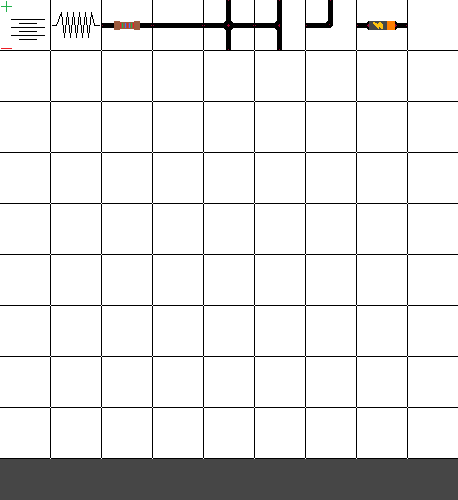
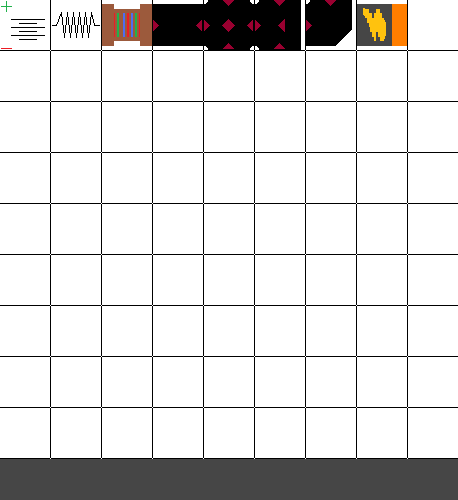
Basic Circuitry

Changed region(s): [[0.214, 0.0, 0.8865, 0.12]]

diff --git a/src/main/java/me/mark/electroid/gui/debugmenu/DebugMenu.java b/src/main/java/me/mark/electroid/gui/debugmenu/DebugMenu.java
@@ -1,0 +1,123 @@
+package me.mark.electroid.gui.debugmenu;
+
+import com.megaboost.Game;
+import com.megaboost.components.WrappedTextComponent;
+import com.megaboost.gui.menu.Menu;
+import com.megaboost.position.Location;
+import com.megaboost.visuals.Camera;
+import com.megaboost.world.Block;
+import me.mark.electroid.Electroid;
+import me.mark.electroid.entity.ElectroidPlayer;
+import java.awt.Graphics;
+import java.awt.Color;
+import java.awt.Font;
+import java.util.Arrays;
+import java.util.Collections;
+import java.util.List;
+
+public class DebugMenu extends Menu {
+
+  private final ElectroidPlayer player;
+  private final Color color;
+  private WrappedTextComponent text;
+
+  public DebugMenu(ElectroidPlayer player) {
+    super(new Location(0, 0), 100, 200, Collections.emptyList(), false);
+
+    this.player = player;
+    this.color = new Color(70, 70, 70, 50);
+    setShown(true);
+    createText();
+  }
+
+  private void createText() {
+    ElectroidPlayer player = getPlayer();
+    Block block = player.getCurrentBlock();
+    Location blockLoc;
+    String blockBiome;
+    String blockName;
+    if (block != null) {
+      blockLoc = player.getLocation();
+      blockName = block.getClass().getSimpleName();
+      blockBiome = block.getBiome().getName();
+    } else {
+      blockLoc = new Location(0, 0);
+      blockName = "Void";
+      blockBiome = "None";
+    }
+    Game game = Electroid.getInstance().getGame();
+    String fps = "FPS: " + game.getFps();
+    String tps = "TPS: " + game.getTps();
+    String componentSize = "Components: " + game.getComponentManager().getComponents().size();
+    String coordinateFormat = "X // Y";
+    String coordinateData = String.format("%s // %s", blockLoc.getX()/ Block.BLOCK_WIDTH, blockLoc.getY() / Block.BLOCK_HEIGHT);
+    String blockTypeData = String.format("Block Type: %s", blockName);
+    String biomeData = String.format("Biome: %s", blockBiome);
+    String facing = String.format("Facing: %s", player.getFacing().getName());
+    List<String> lines =  Arrays.asList(coordinateFormat, coordinateData, fps, tps, componentSize, blockTypeData, biomeData, facing);
+    this.text = new WrappedTextComponent(new Location(5, 5), lines, new Font("Times New Roman", Font.PLAIN, 15), 5, false);
+  }
+
+  public ElectroidPlayer getPlayer() {
+    return player;
+  }
+
+  @Override
+  public Color getColor() {
+    return color;
+  }
+
+  public WrappedTextComponent getText() {
+    return text;
+  }
+
+  @Override
+  public boolean isKeyToggled() {
+    return false;
+  }
+
+  @Override
+  public int getKey() {
+    return 0;
+  }
+
+  @Override
+  public void tick() {
+    ElectroidPlayer player = getPlayer();
+    WrappedTextComponent text = getText();
+    if (player == null || text == null) return;
+    Block block = player.getCurrentBlock();
+    String blockBiome;
+    String blockName;
+    if (block != null) {
+      blockName = block.getClass().getSimpleName();
+      blockBiome = block.getBiome().getName();
+    } else {
+      blockName = "Void";
+      blockBiome = "None";
+    }
+
+    Game game = Game.getInstance();
+    String fps = "FPS: " + game.getFps();
+    String tps = "TPS: " + game.getTps();
+    String componentSize = "Components: " + game.getComponentManager().getComponents().size();
+    String coordinateData = String.format("%s // %s", player.getBlockX(), player.getBlockY());
+    String blockTypeData = String.format("Block Type: %s", blockName);
+    String biomeData = String.format("Biome: %s", blockBiome);
+    String facing = String.format("Facing: %s", player.getFacing().getName());
+    text.updateLine(1, coordinateData);
+    text.updateLine(2, blockTypeData);
+    text.updateLine(3, fps);
+    text.updateLine(4, tps);
+    text.updateLine(5, componentSize);
+    text.updateLine(6, biomeData);
+    text.updateLine(7, facing);
+  }
+
+  @Override
+  public void render(Graphics g, Camera camera) {
+    WrappedTextComponent text = getText();
+    if (text == null) return;
+    text.render(g, camera);
+  }
+}

diff --git a/src/main/java/me/mark/electroid/entity/ElectroidPlayer.java b/src/main/java/me/mark/electroid/entity/ElectroidPlayer.java
@@ -11,26 +11,59 @@ import com.megaboost.inputs.MouseClickType;
 import com.megaboost.inventory.HotBar;
 import com.megaboost.inventory.Inventory;
 import com.megaboost.inventory.InventoryHolder;
+import com.megaboost.items.Material;
 import com.megaboost.position.Location;
+import com.megaboost.utils.ImageUtil;
 import com.megaboost.visuals.Camera;
 import me.mark.electroid.Electroid;
+import me.mark.electroid.gui.debugmenu.DebugMenu;
+
 import java.awt.Graphics;
 import java.awt.Image;
+import java.awt.Point;
 import java.awt.event.KeyEvent;
 
 public class ElectroidPlayer extends Player implements ChatSender, Listener, InventoryHolder {
 
   private final Inventory inventory;
   private final HotBar hotBar;
+  private final DebugMenu debugMenu;
+  private Image cursorImage;
+  private int cursorRotation;
 
   public ElectroidPlayer(Location location, String name) {
     super(location, name);
 
     this.inventory = new Inventory("Player Inventory", 9, 5);
     this.hotBar = new HotBar(this.inventory, 60, 60, 5);
+    this.debugMenu = new DebugMenu(this);
+    this.cursorImage = null;
+    this.cursorRotation = 0;
     setSpeed(8);
     getNameTag().setShown(false);
     Electroid.getInstance().getGame().getEventManager().registerListener(this);
+  }
+
+  public Image getCursorImage() {
+    return cursorImage;
+  }
+
+  public void setCursorImage(Image cursorImage) {
+    this.cursorImage = cursorImage;
+  }
+
+  public int getCursorRotation() {
+    return cursorRotation;
+  }
+
+  public void setCursorRotation(int cursorRotation) {
+    this.cursorRotation = cursorRotation;
+  }
+
+  private void rotateCursorImage() {
+    if (getCursorImage() == null) return;
+    setCursorRotation(getCursorRotation() + 90);
+    setCursorImage(ImageUtil.rotate(getCursorImage(), 90));
   }
 
   @EventHandler
@@ -40,6 +73,7 @@ public class ElectroidPlayer extends Player implements ChatSender, Listener, Inv
 
     if (keycode == KeyEvent.VK_E) getInventory().toggleShown();
     if (keycode == KeyEvent.VK_ESCAPE) if (getInventory().isShown()) getInventory().closeInventory();
+    if (keycode == KeyEvent.VK_SPACE) if (!getInventory().isShown()) rotateCursorImage();
   }
 
   @EventHandler
@@ -87,8 +121,23 @@ public class ElectroidPlayer extends Player implements ChatSender, Listener, Inv
   }
 
   @Override
+  public void tick() {
+    super.tick();
+
+    if (getHotBar() == null) return;
+    if (getHotBar().getItemInHand() == null) return;
+    if (getHotBar().getItemInHand().getType() == Material.AIR) {
+      setCursorImage(null);
+      return;
+    }
+    setCursorImage(ImageUtil.rotate(getHotBar().getItemInHand().getType().getAsset(), getCursorRotation()));
+  }
+
+  @Override
   public void render(Graphics g, Camera camera) {
-    return;
+    if (getCursorImage() == null) return;
+    Point mousePoint = Electroid.getInstance().getGame().getMousePoint();
+    g.drawImage(getCursorImage(), (int) mousePoint.getX(), (int) mousePoint.getY(), 50, 50, null);
   }
 
 }

diff --git a/src/main/java/me/mark/electroid/world/blocks/BatteryBlock.java b/src/main/java/me/mark/electroid/world/blocks/BatteryBlock.java
@@ -5,30 +5,29 @@ import com.megaboost.world.Block;
 import com.megaboost.world.WorldObject;
 import com.megaboost.world.block.Breakable;
 import com.megaboost.world.block.Placeable;
-import me.mark.electroid.electrical.Wire;
 import me.mark.electroid.items.Material;
 import me.mark.electroid.world.CircuitBlock;
 import java.awt.Color;
 import java.util.Collections;
 import java.util.List;
 
-public class WireBlock extends WorldObject implements Breakable, Placeable, Wire {
+public class BatteryBlock extends WorldObject implements Breakable, Placeable {
 
   private final ItemStack drop;
 
-  public WireBlock(Block block) {
-    super(Material.STRAIGHT_WIRE.getAsset(), block);
+  public BatteryBlock(Block block) {
+    super(Material.VOLTAGE_SOURCE.getAsset(), block);
 
-    this.drop = new ItemStack(Material.STRAIGHT_WIRE);
+    this.drop = new ItemStack(Material.VOLTAGE_SOURCE);
     //Electroid.getInstance().getGame().getWorldObjectPlaceManager().addObject(this);
     setWidth(50);
     setHeight(50);
   }
 
-  public WireBlock() {
+  public BatteryBlock() {
     super();
 
-    this.drop = new ItemStack(Material.STRAIGHT_WIRE);
+    this.drop = new ItemStack(Material.VOLTAGE_SOURCE);
   }
 
   @Override
@@ -43,7 +42,7 @@ public class WireBlock extends WorldObject implements Breakable, Placeable, Wire
 
   @Override
   public Color getBreakParticleColor() {
-    return Color.BLACK;
+    return Color.ORANGE;
   }
 
   @Override
@@ -53,46 +52,6 @@ public class WireBlock extends WorldObject implements Breakable, Placeable, Wire
 
   @Override
   public Material getSourceMaterial() {
-    return Material.STRAIGHT_WIRE;
-  }
-
-  @Override
-  public int getRotation() {
-    return 0;
-  }
-
-  @Override
-  public void setVoltage(double voltage) {
-
-  }
-
-  @Override
-  public double getVoltage() {
-    return 0;
-  }
-
-  @Override
-  public void setCurrent(double current) {
-
-  }
-
-  @Override
-  public double getCurrent() {
-    return 0;
-  }
-
-  @Override
-  public void setResistance(double resistance) {
-
-  }
-
-  @Override
-  public boolean isNode() {
-    return false;
-  }
-
-  @Override
-  public void setNode(boolean isNode) {
-
+    return Material.VOLTAGE_SOURCE;
   }
 }

diff --git a/src/main/java/me/mark/electroid/electrical/ElectricalComponent.java b/src/main/java/me/mark/electroid/electrical/ElectricalComponent.java
@@ -1,0 +1,24 @@
+package me.mark.electroid.electrical;
+
+public interface ElectricalComponent {
+
+  int getRotation();
+  void setVoltage(double voltage);
+  double getVoltage();
+  void setCurrent(double current);
+  double getCurrent();
+  void setResistance(double resistance);
+  double getResistance();
+
+  default double getPower() {
+    return getCurrent() * getVoltage();
+  }
+
+  default double calculateVoltage() {
+    double voltage = getCurrent() * getResistance();
+    setVoltage(voltage);
+    return voltage;
+  }
+
+
+}

diff --git a/src/main/java/me/mark/electroid/Electroid.java b/src/main/java/me/mark/electroid/Electroid.java
@@ -4,6 +4,7 @@ import com.megaboost.Game;
 import com.megaboost.world.WorldObjectPlaceManager;
 import me.mark.electroid.gui.mainmenu.MainMenu;
 import me.mark.electroid.utils.ImageUtil;
+import me.mark.electroid.world.blocks.BatteryBlock;
 import me.mark.electroid.world.blocks.WireBlock;
 
 /**
@@ -38,6 +39,7 @@ public class Electroid {
   private void registerWorldObjects() {
     WorldObjectPlaceManager wpm = getGame().getWorldObjectPlaceManager();
     wpm.addObject(new WireBlock());
+    wpm.addObject(new BatteryBlock());
 
   }
 

diff --git a/src/main/java/me/mark/electroid/world/CircuitBlock.java b/src/main/java/me/mark/electroid/world/CircuitBlock.java
@@ -2,9 +2,6 @@ package me.mark.electroid.world;
 
 import com.megaboost.Game;
 import com.megaboost.entity.Entity;
-import com.megaboost.position.Location;
-import com.megaboost.utils.ImageUtil;
-import com.megaboost.utils.MathUtil;
 import com.megaboost.visuals.Camera;
 import com.megaboost.visuals.Filter;
 import com.megaboost.world.Block;

diff --git a/src/main/java/me/mark/electroid/electrical/Wire.java b/src/main/java/me/mark/electroid/electrical/Wire.java
@@ -1,0 +1,13 @@
+package me.mark.electroid.electrical;
+
+public interface Wire extends ElectricalComponent {
+
+  @Override
+  default double getResistance() {
+    return 0.1;
+  }
+
+  boolean isNode();
+  void setNode(boolean isNode);
+
+}

diff --git a/src/main/java/me/mark/electroid/electrical/VoltageSource.java b/src/main/java/me/mark/electroid/electrical/VoltageSource.java
@@ -1,0 +1,4 @@
+package me.mark.electroid.electrical;
+
+public interface VoltageSource extends ElectricalComponent {
+}

diff --git a/src/main/java/me/mark/electroid/electrical/Resistor.java b/src/main/java/me/mark/electroid/electrical/Resistor.java
@@ -1,0 +1,4 @@
+package me.mark.electroid.electrical;
+
+public interface Resistor extends ElectricalComponent {
+}
